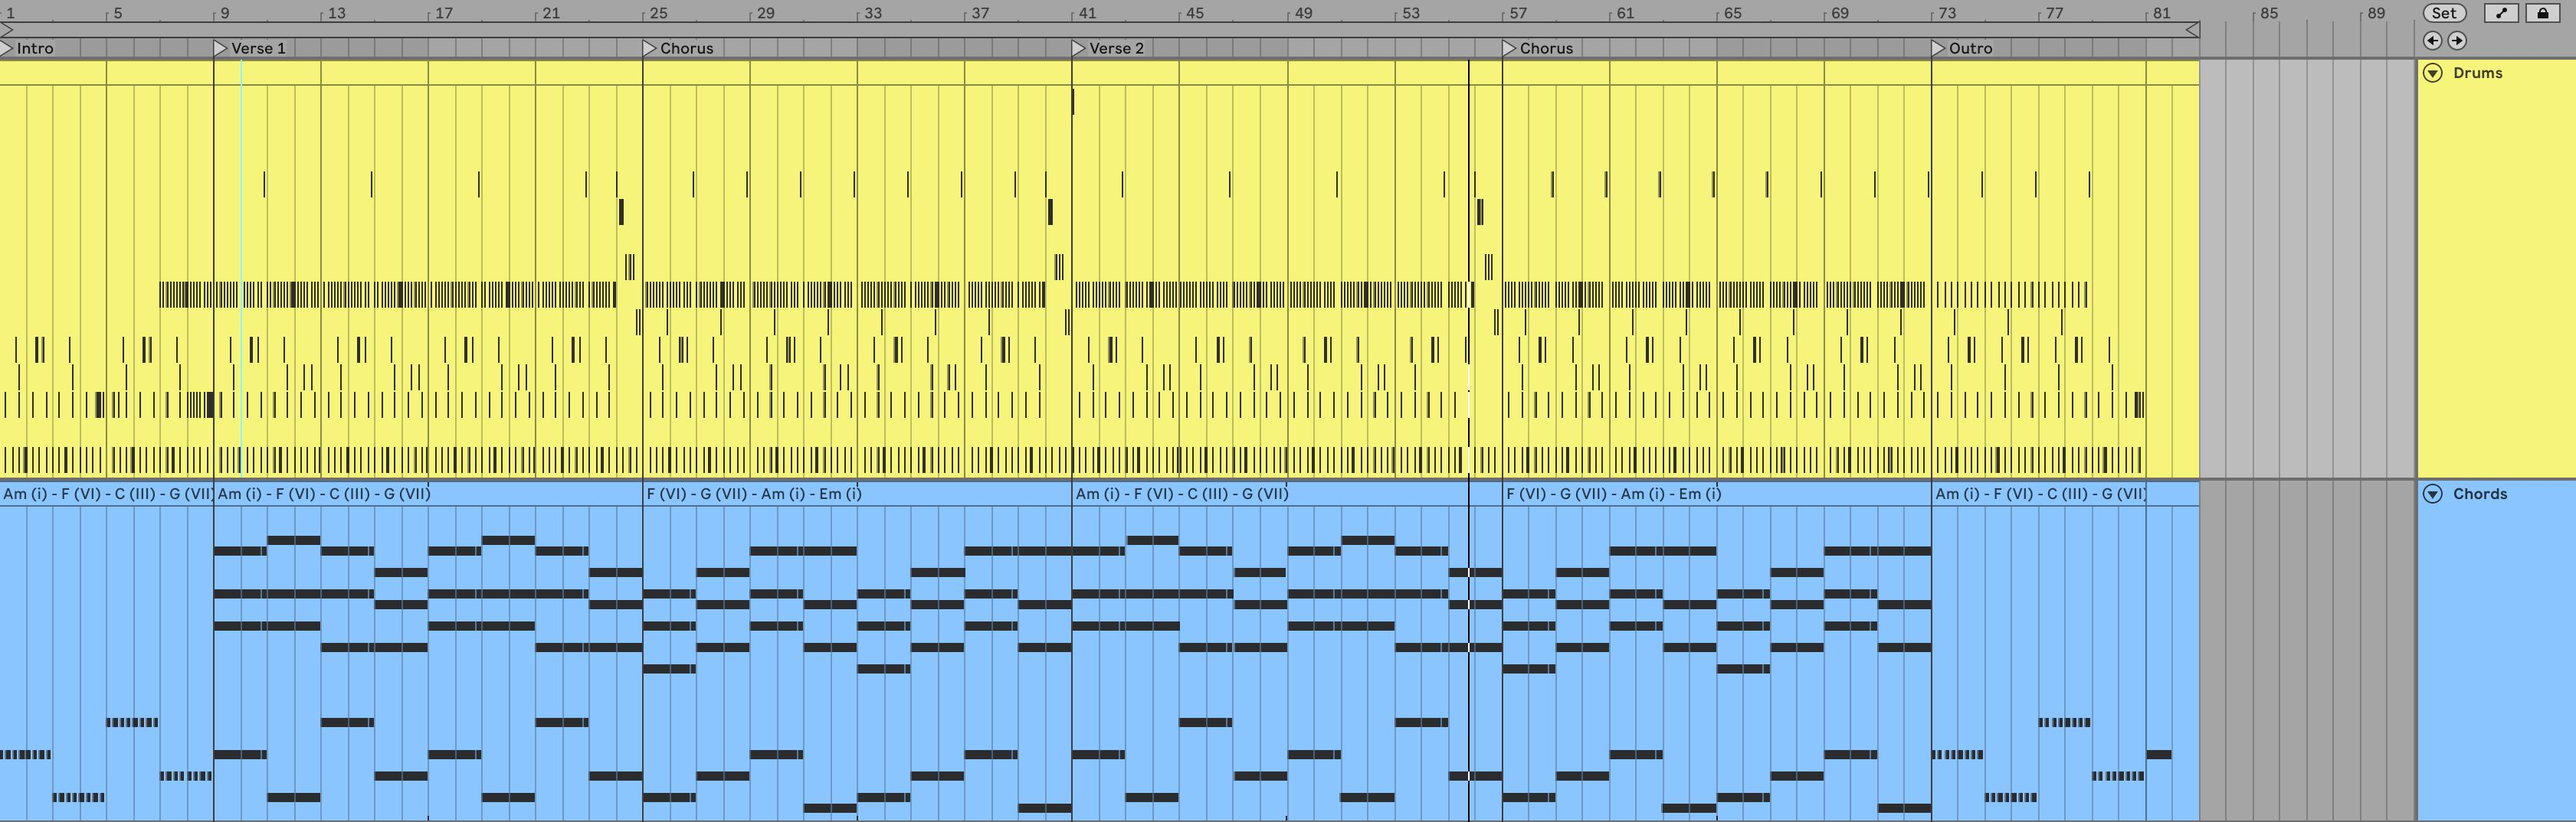
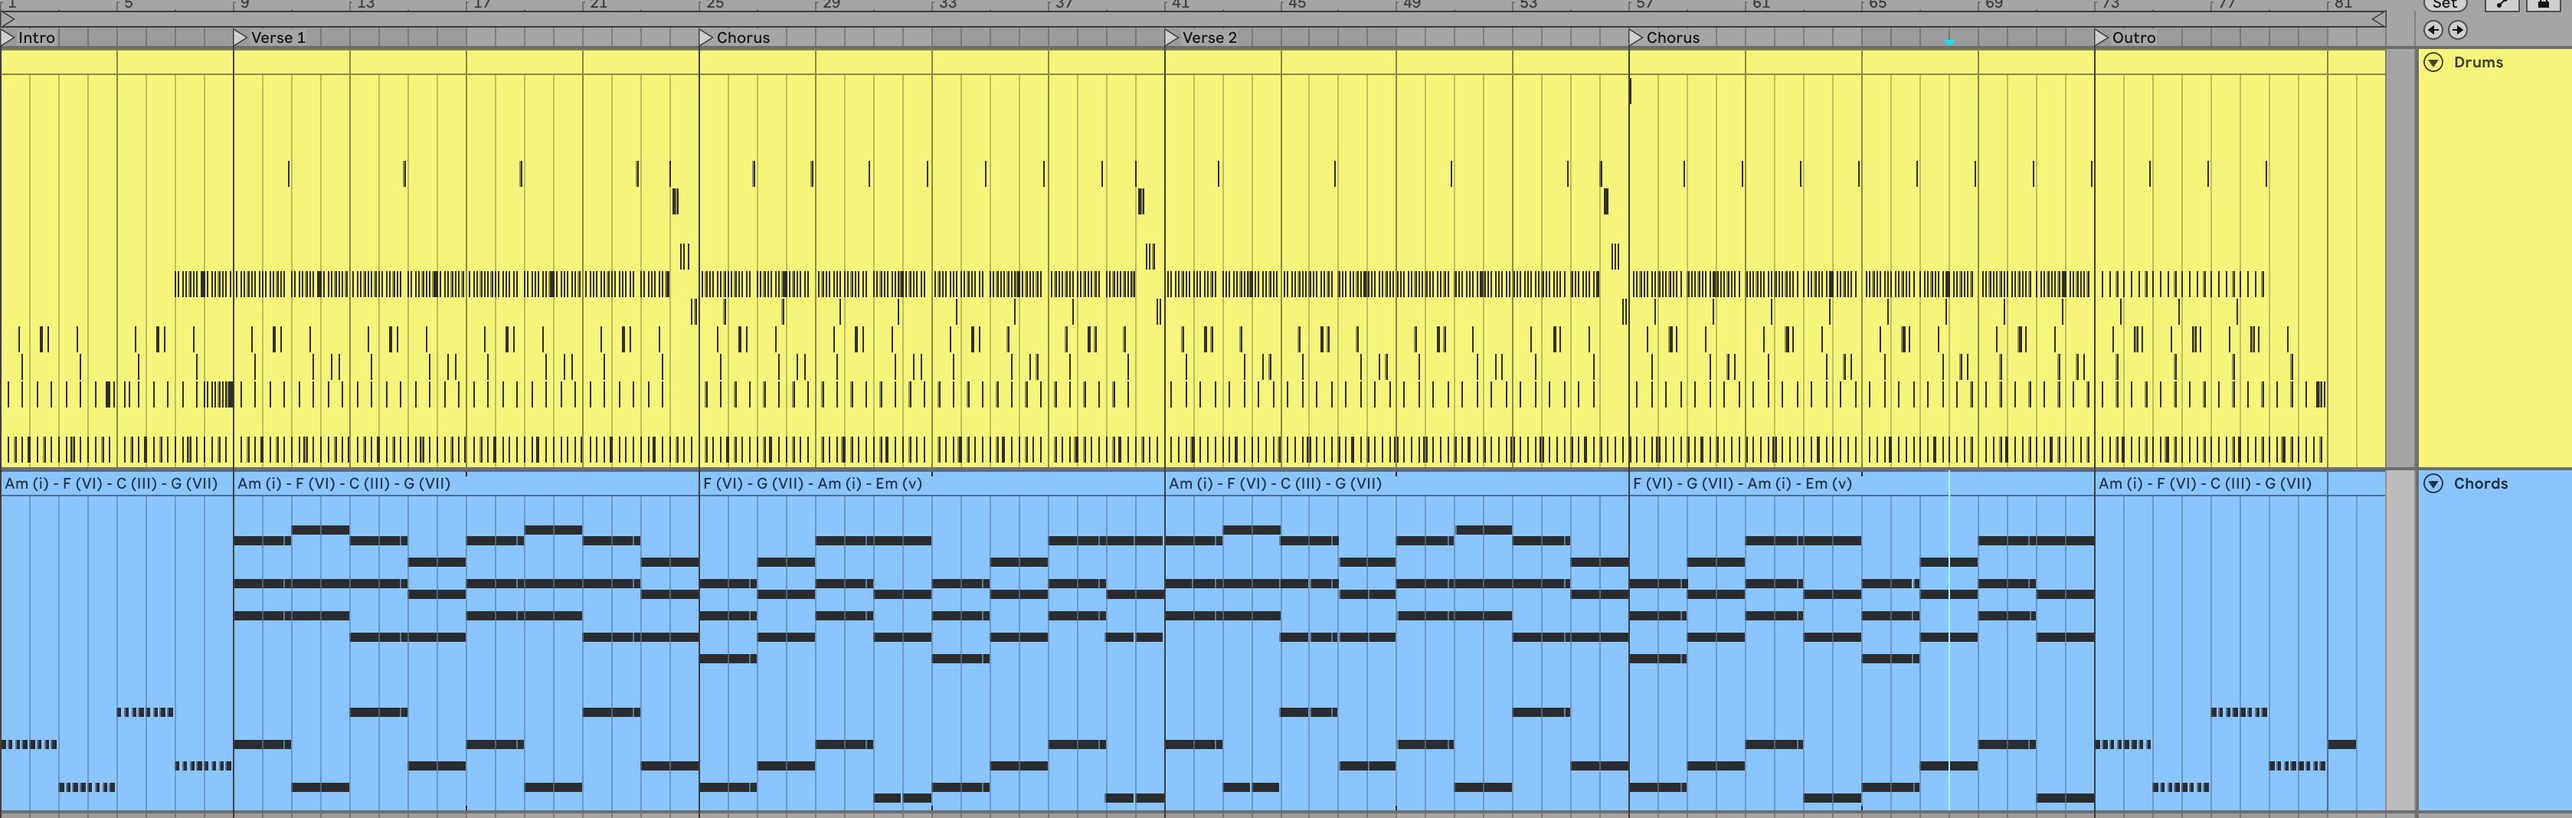
fix: course

diff --git a/src/components/course/course.md b/src/components/course/course.md
@@ -158,9 +158,9 @@ Listen:
   Your browser does not support the audio tag.
 </audio>
 
-Download:
+Download Project:
 
-https://1drv.ms/u/c/ff4258c71b6522ef/EScVcXQJg_NAhqmz-AtsMeABZokWLilh83kXKGnC9TM9EA?e=09CI4h
+https://1drv.ms/u/c/ff4258c71b6522ef/EU1y2jKgj5lNqp7mgmVAM4kB6wO_zpAtD2LGlHq_YsR2HA?e=d2X4TH
 
 I simplified the chords we use, (use only triads) and added bass notes to each.
 
@@ -174,13 +174,11 @@ i – VI – III – VII
 
 Chorus:
 
-C – G – Am – F
+F – G – Am – Em
 
-III – VII – i – VI
+VI – VII – i – v
 
 ![Song with chords](/course/song-with-chords.jpg)
-
-You can download project here: https://1drv.ms/u/s!Au8iZRvHWEL_mM5n47KpBW45DjjDzg?e=JH7WVb
 
 **✨ Home work**
 
